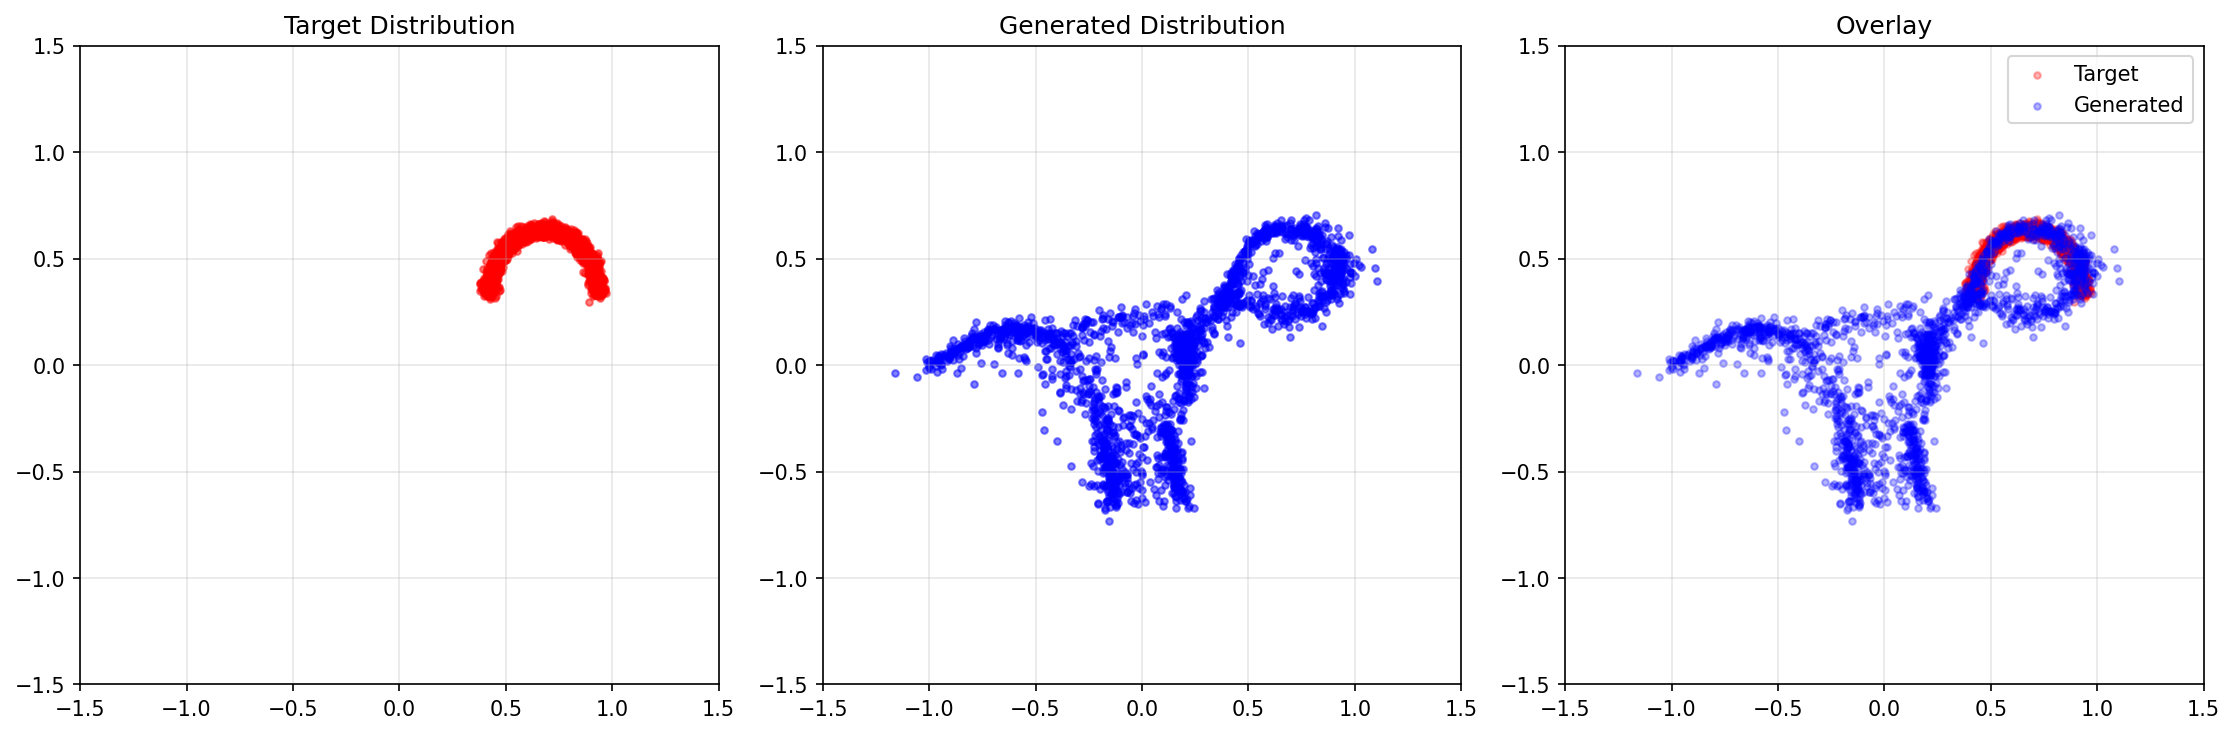
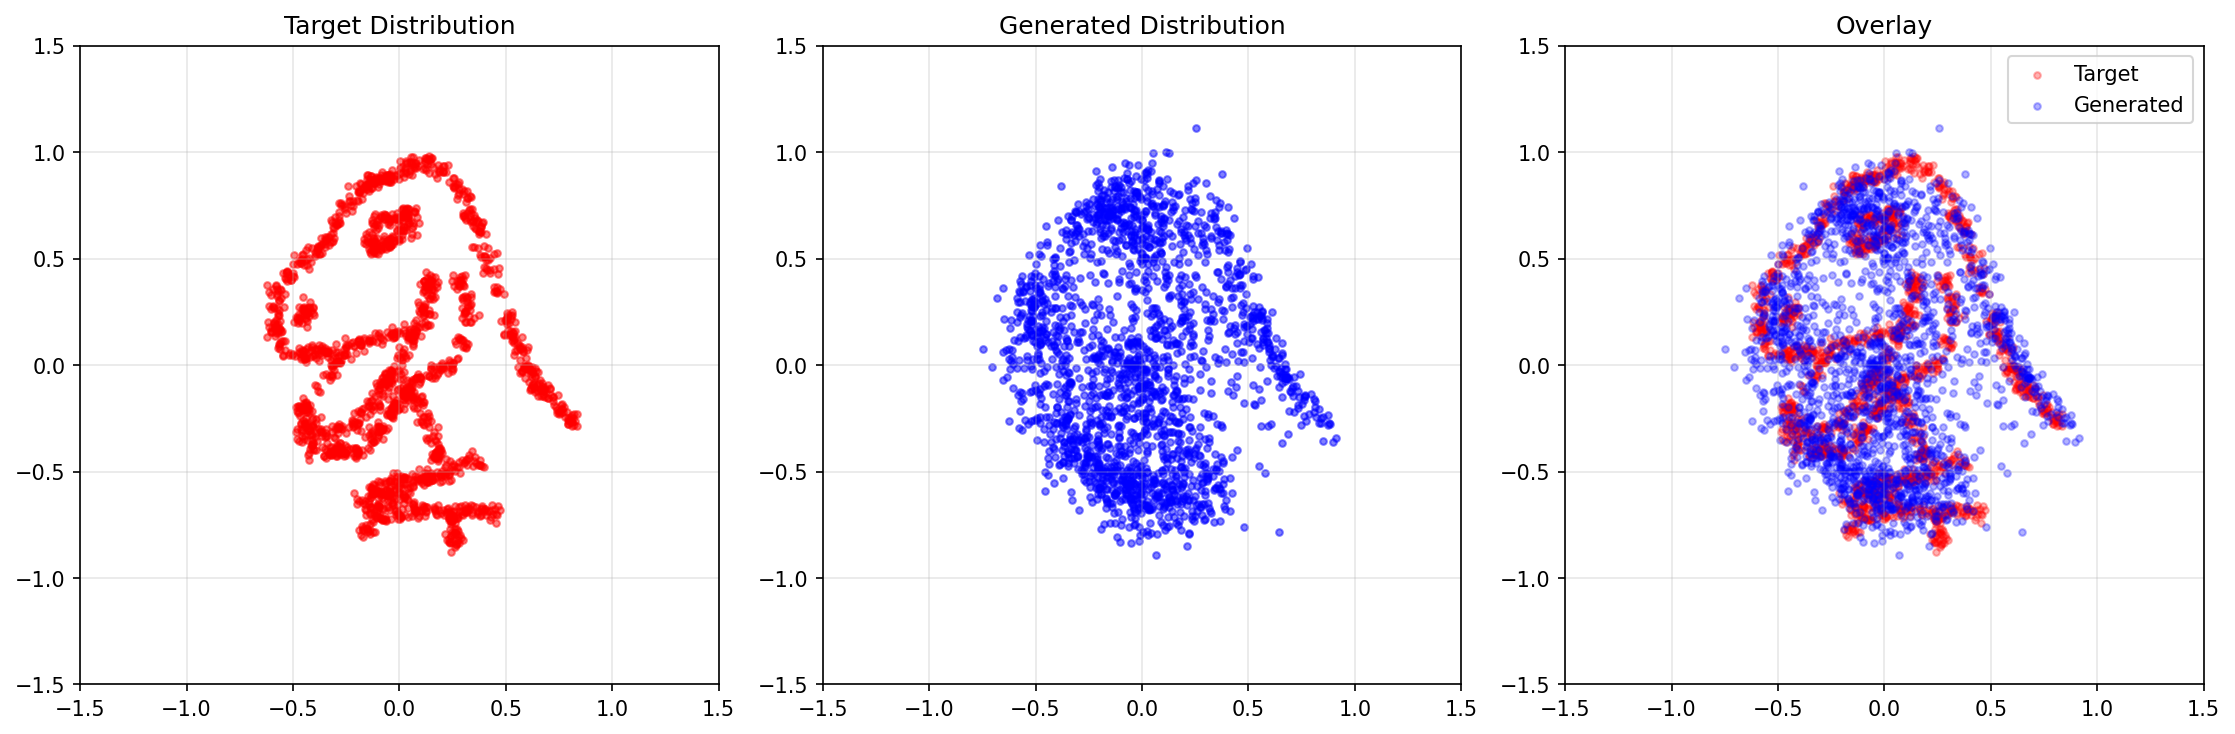
added dino dataset; tuned lr; todo: update results

diff --git a/src/flow_visualizer/data.py b/src/flow_visualizer/data.py
@@ -7,15 +7,10 @@ from torch.utils.data import Dataset
 
 def generate_trex_data(n_samples: int, noise: float = 0.02) -> np.ndarray:
     """
-    Generate 2D T-Rex shaped dataset inspired by Google Chrome T-Rex runner game.
+    Generate 2D dinosaur shaped dataset from the Datasaurus Dozen.
 
-    The T-Rex has a pixelated, blocky appearance with:
-    - Large rectangular head with an eye
-    - Short thick neck
-    - Rounded body
-    - Tiny arms
-    - Strong legs with feet
-    - Horizontal tail
+    Uses the original dino dataset from Alberto Cairo / Justin Matejka.
+    See: https://jumpingrivers.github.io/datasauRus/
 
     Args:
         n_samples: Total number of samples to generate
@@ -24,118 +19,68 @@ def generate_trex_data(n_samples: int, noise: float = 0.02) -> np.ndarray:
     Returns:
         Array of shape (n_samples, 2) containing 2D points
     """
-    points = []
-
-    # Define Chrome T-Rex outline with blocky/pixelated body parts
-    # Each part gets a proportion of the total samples
-
-    # Head (blocky rectangular with rounded top) - 18%
-    n_head = int(0.18 * n_samples)
-    # Create blocky head shape
-    head_top = int(n_head * 0.3)
-    head_back = int(n_head * 0.2)
-    head_front = int(n_head * 0.3)
-    head_jaw = int(n_head * 0.2)
-
-    head_x = np.concatenate([
-        np.linspace(0.5, 0.8, head_top),      # top of head
-        np.full(head_back, 0.5),              # back of head
-        np.linspace(0.5, 0.9, head_front),    # front/snout
-        np.linspace(0.9, 0.6, head_jaw)       # jaw line
+    # Original Datasaurus dino coordinates
+    dino_points = np.array([
+        [55.3846, 97.1795], [51.5385, 96.0256], [46.1538, 94.4872],
+        [42.8205, 91.4103], [40.7692, 88.3333], [38.7179, 84.8718],
+        [35.641, 79.8718], [33.0769, 77.5641], [28.9744, 74.4872],
+        [26.1538, 71.4103], [23.0769, 66.4103], [22.3077, 61.7949],
+        [22.3077, 57.1795], [23.3333, 52.9487], [25.8974, 51.0256],
+        [29.4872, 51.0256], [32.8205, 51.0256], [35.3846, 51.4103],
+        [40.2564, 51.4103], [44.1026, 52.9487], [46.6667, 54.1026],
+        [50.0, 55.2564], [53.0769, 55.641], [56.6667, 56.0256],
+        [59.2308, 57.9487], [61.2821, 62.1795], [61.5385, 66.4103],
+        [61.7949, 69.1026], [57.4359, 55.2564], [54.8718, 49.8718],
+        [52.5641, 46.0256], [48.2051, 38.3333], [49.4872, 42.1795],
+        [51.0256, 44.1026], [45.3846, 36.4103], [42.8205, 32.5641],
+        [38.7179, 31.4103], [35.1282, 30.2564], [32.5641, 32.1795],
+        [30.0, 36.7949], [33.5897, 41.4103], [36.6667, 45.641],
+        [38.2051, 49.1026], [29.7436, 36.0256], [29.7436, 32.1795],
+        [30.0, 29.1026], [32.0513, 26.7949], [35.8974, 25.2564],
+        [41.0256, 25.2564], [44.1026, 25.641], [47.1795, 28.718],
+        [49.4872, 31.4103], [51.5385, 34.8718], [53.5897, 37.5641],
+        [55.1282, 40.641], [56.6667, 42.1795], [59.2308, 44.4872],
+        [62.3077, 46.0256], [64.8718, 46.7949], [67.9487, 47.9487],
+        [70.5128, 53.718], [71.5385, 60.641], [71.5385, 64.4872],
+        [69.4872, 69.4872], [46.9231, 79.8718], [48.2051, 84.1026],
+        [50.0, 85.2564], [53.0769, 85.2564], [55.3846, 86.0256],
+        [56.6667, 86.0256], [56.1538, 82.9487], [53.8462, 80.641],
+        [51.2821, 78.718], [50.0, 78.718], [47.9487, 77.5641],
+        [29.7436, 59.8718], [29.7436, 62.1795], [31.2821, 62.5641],
+        [57.9487, 99.4872], [61.7949, 99.1026], [64.8718, 97.5641],
+        [68.4615, 94.1026], [70.7692, 91.0256], [72.0513, 86.4103],
+        [73.8462, 83.3333], [75.1282, 79.1026], [76.6667, 75.2564],
+        [77.6923, 71.4103], [79.7436, 66.7949], [81.7949, 60.2564],
+        [83.3333, 55.2564], [85.1282, 51.4103], [86.4103, 47.5641],
+        [87.9487, 46.0256], [89.4872, 42.5641], [93.3333, 39.8718],
+        [95.3846, 36.7949], [98.2051, 33.718], [56.6667, 40.641],
+        [59.2308, 38.3333], [60.7692, 33.718], [63.0769, 29.1026],
+        [64.1026, 25.2564], [64.359, 24.1026], [74.359, 22.9487],
+        [71.2821, 22.9487], [67.9487, 22.1795], [65.8974, 20.2564],
+        [63.0769, 19.1026], [61.2821, 19.1026], [58.7179, 18.3333],
+        [55.1282, 18.3333], [52.3077, 18.3333], [49.7436, 17.5641],
+        [47.4359, 16.0256], [44.8718, 13.718], [48.7179, 14.8718],
+        [51.2821, 14.8718], [54.1026, 14.8718], [56.1538, 14.1026],
+        [52.0513, 12.5641], [48.7179, 11.0256], [47.1795, 9.8718],
+        [46.1538, 6.0256], [50.5128, 9.4872], [53.8462, 10.2564],
+        [57.4359, 10.2564], [60.0, 10.641], [64.1026, 10.641],
+        [66.9231, 10.641], [71.2821, 10.641], [74.359, 10.641],
+        [78.2051, 10.641], [67.9487, 8.718], [68.4615, 5.2564],
+        [68.2051, 2.9487], [37.6923, 25.7692], [39.4872, 25.3846],
+        [91.2821, 41.5385], [50.0, 95.7692], [47.9487, 95.0],
+        [44.1026, 92.6923],
     ])
-    head_y = np.concatenate([
-        np.full(head_top, 0.7),                           # top flat
-        np.linspace(0.7, 0.4, head_back),                # back edge
-        np.linspace(0.6, 0.5, head_front),               # snout slope
-        np.full(head_jaw, 0.4)                           # jaw flat
-    ])
-
-    # Eye (small dot) - 2%
-    n_eye = int(0.02 * n_samples)
-    eye_x = 0.7 + 0.03 * np.cos(np.linspace(0, 2*np.pi, n_eye))
-    eye_y = 0.62 + 0.03 * np.sin(np.linspace(0, 2*np.pi, n_eye))
-
-    # Neck (short and thick) - 8%
-    n_neck = int(0.08 * n_samples)
-    neck_x = np.linspace(0.55, 0.35, n_neck)
-    neck_y = np.linspace(0.4, 0.25, n_neck)
-
-    # Body (rounded, egg-like) - 16%
-    n_body = int(0.16 * n_samples)
-    t_body = np.linspace(0, 2 * np.pi, n_body)
-    body_x = 0.1 + 0.3 * np.cos(t_body)
-    body_y = 0.05 + 0.35 * np.sin(t_body)
-
-    # Tail (horizontal, tapering, slightly lifted) - 14%
-    n_tail = int(0.14 * n_samples)
-    t_tail = np.linspace(0, 1, n_tail)
-    tail_x = -0.2 - 0.7 * t_tail
-    # Tail curves up slightly and tapers
-    tail_thickness = (1 - t_tail * 0.8)
-    tail_y_upper = 0.15 + 0.1 * t_tail + 0.08 * tail_thickness
-    tail_y_lower = 0.15 + 0.1 * t_tail - 0.08 * tail_thickness
-
-    # Combine upper and lower tail edges
-    tail_x = np.concatenate([tail_x, tail_x[::-1]])
-    tail_y = np.concatenate([tail_y_upper, tail_y_lower[::-1]])
-
-    # Back leg (thick, strong, bent) - 13%
-    n_leg1 = int(0.13 * n_samples)
-    leg1_upper = int(n_leg1 * 0.4)
-    leg1_lower = int(n_leg1 * 0.4)
-    leg1_foot = n_leg1 - leg1_upper - leg1_lower
-
-    leg1_x = np.concatenate([
-        np.linspace(-0.05, 0.0, leg1_upper),      # thigh
-        np.linspace(0.0, 0.05, leg1_lower),       # shin/calf
-        np.linspace(0.05, 0.15, leg1_foot)        # foot
-    ])
-    leg1_y = np.concatenate([
-        np.linspace(0.0, -0.35, leg1_upper),
-        np.linspace(-0.35, -0.65, leg1_lower),
-        np.full(leg1_foot, -0.65)                  # foot flat on ground
-    ])
-
-    # Front leg (thick, strong, straighter) - 13%
-    n_leg2 = int(0.13 * n_samples)
-    leg2_upper = int(n_leg2 * 0.45)
-    leg2_lower = int(n_leg2 * 0.35)
-    leg2_foot = n_leg2 - leg2_upper - leg2_lower
-
-    leg2_x = np.concatenate([
-        np.linspace(0.25, 0.28, leg2_upper),
-        np.linspace(0.28, 0.26, leg2_lower),
-        np.linspace(0.26, 0.36, leg2_foot)
-    ])
-    leg2_y = np.concatenate([
-        np.linspace(0.0, -0.4, leg2_upper),
-        np.linspace(-0.4, -0.65, leg2_lower),
-        np.full(leg2_foot, -0.65)
-    ])
-
-    # Tiny arms (very small, characteristic of T-Rex) - 8% each
-    n_arm1 = int(0.08 * n_samples)
-    arm1_x = np.linspace(0.28, 0.32, n_arm1)
-    arm1_y = np.linspace(0.3, 0.15, n_arm1)
-
-    n_arm2 = int(0.08 * n_samples)
-    arm2_x = np.linspace(0.32, 0.36, n_arm2)
-    arm2_y = np.linspace(0.28, 0.13, n_arm2)
-
-    # Combine all parts
-    all_x = np.concatenate([head_x, eye_x, neck_x, body_x, tail_x,
-                            leg1_x, leg2_x, arm1_x, arm2_x])
-    all_y = np.concatenate([head_y, eye_y, neck_y, body_y, tail_y,
-                            leg1_y, leg2_y, arm1_y, arm2_y])
-
-    # Stack into points
-    data = np.stack([all_x, all_y], axis=1)
+    
+    # Center and normalize to [-1, 1] range
+    dino_points = dino_points - dino_points.mean(axis=0)
+    dino_points = dino_points / np.abs(dino_points).max()
+    
+    # Sample with replacement to get n_samples points
+    indices = np.random.choice(len(dino_points), n_samples, replace=True)
+    data = dino_points[indices]
 
     # Add noise
     data += noise * np.random.randn(*data.shape)
-
-    # Normalize to roughly [-1, 1]
-    data = data / (np.abs(data).max() + 1e-8)
 
     return data.astype(np.float32)
 

diff --git a/src/flow_visualizer/train.py b/src/flow_visualizer/train.py
@@ -80,11 +80,12 @@ def main(cfg: DictConfig) -> None:
     model = FlowMatchingModel(velocity_net=velocity_net, device=device)
 
     # Create optimizer
-    optimizer = torch.optim.Adam(
+    optimizer = torch.optim.AdamW(
         velocity_net.parameters(),
         lr=cfg.training.learning_rate,
+        weight_decay=cfg.training.weight_decay,
+        betas=(cfg.training.beta1, cfg.training.beta2),
     )
-
     # Training loop
     logger.info("Starting training...")
     for epoch in range(cfg.training.n_epochs):
